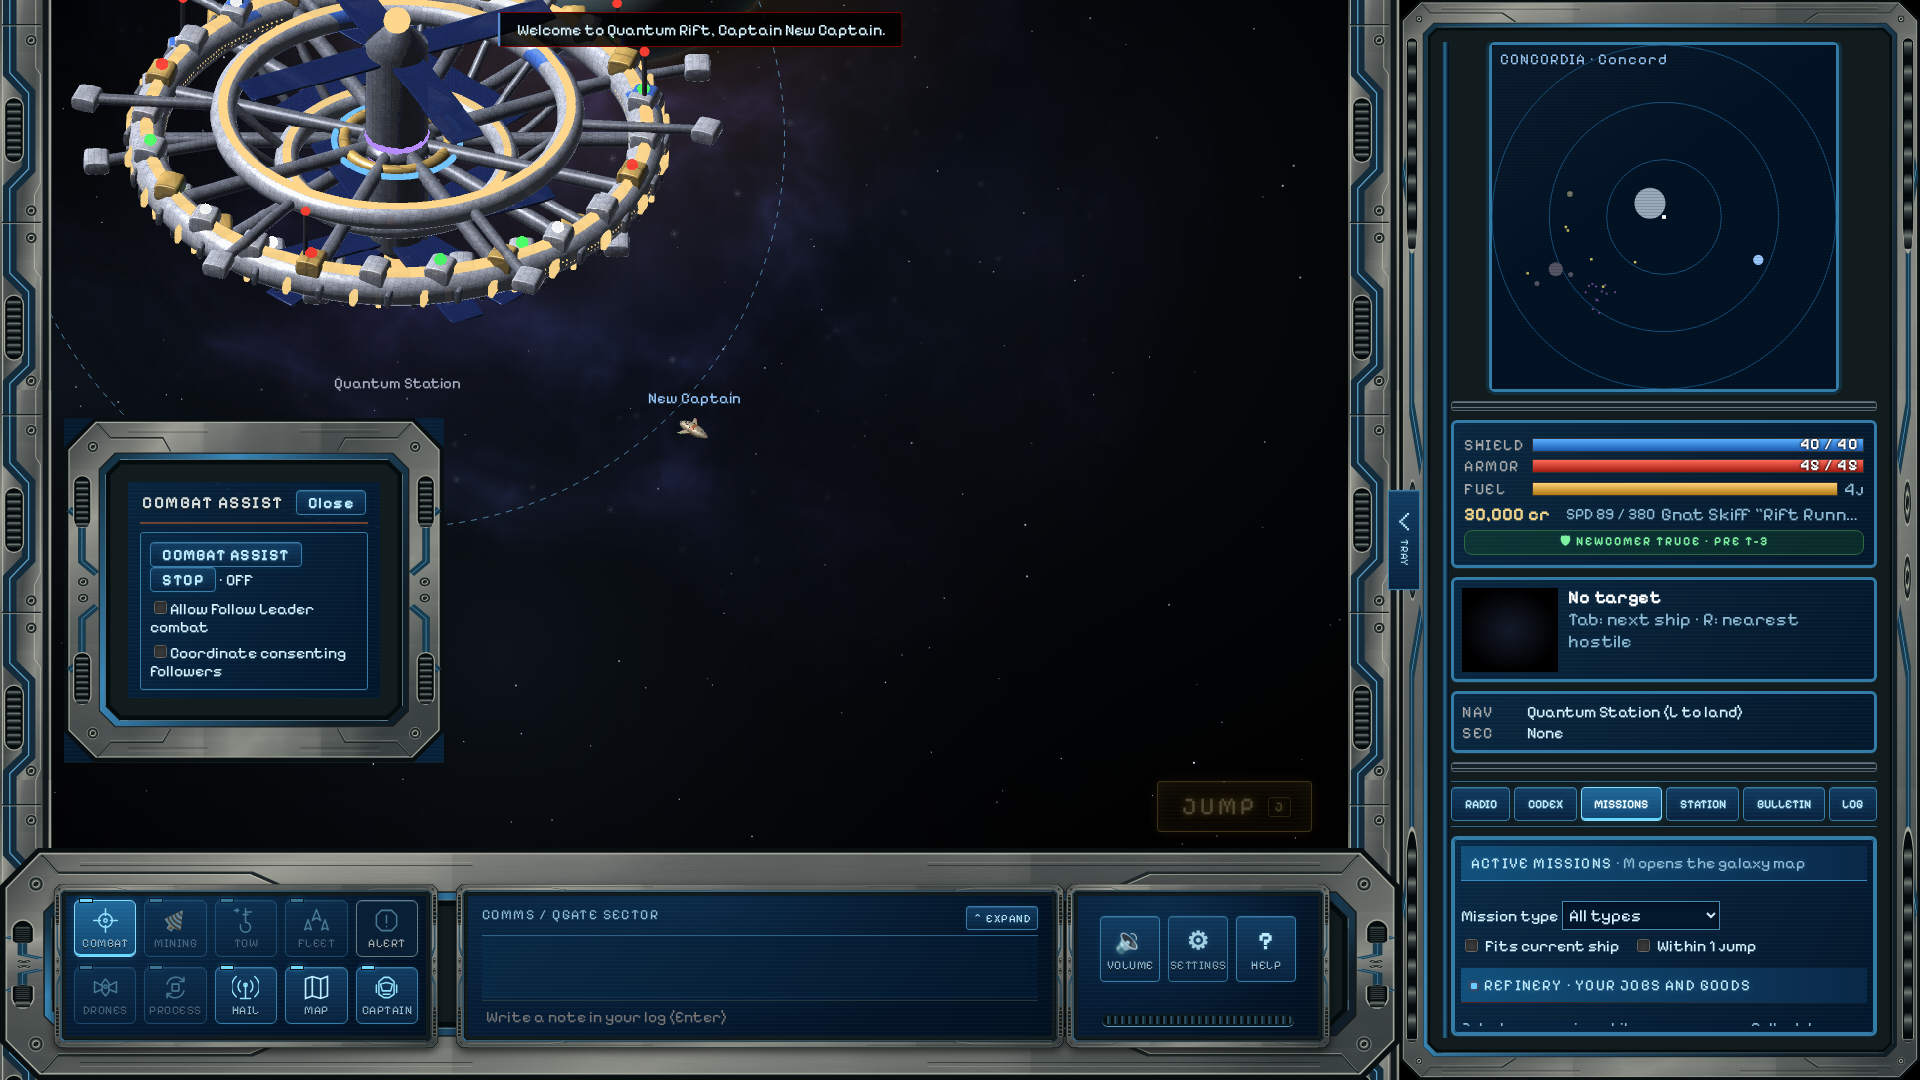
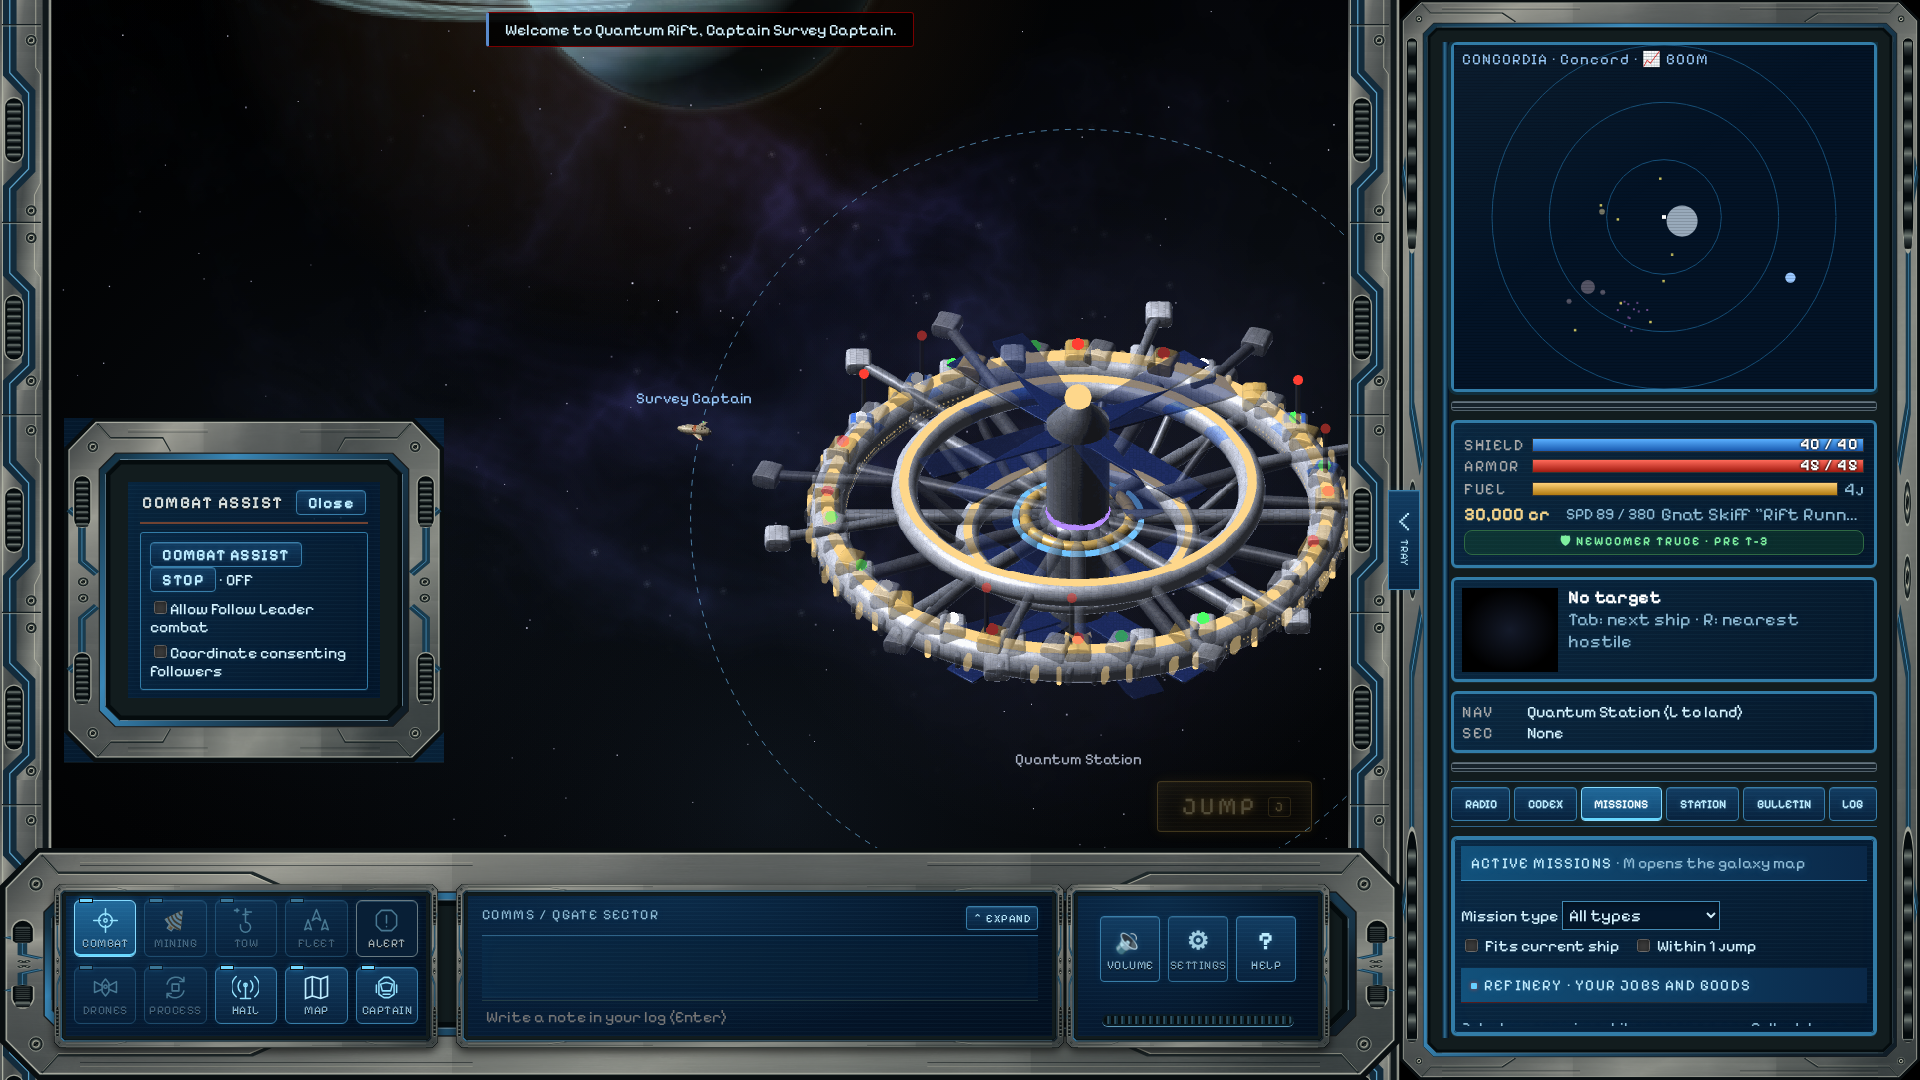
test(ui): await current sidebar allocation

diff --git a/test/sidebar-sizing-browser.ts b/test/sidebar-sizing-browser.ts
@@ -45,14 +45,33 @@ try {
     undefined,
     { timeout: 3000 },
   );
+  // Both ARIA values can still describe the previous viewport. Compare them
+  // with the room in the current layout before using the allocation as a baseline.
   async function assertMaximumRadar() {
     await page.waitForFunction(
       () => {
         const grip = document.getElementById('radarheightgrip')!;
+        const sidebar = document.getElementById('hud')!;
+        const radar = document.getElementById('radarwrap')!;
+        const menu = document.getElementById('cpanel')!;
+        const style = getComputedStyle(sidebar);
+        const chrome = [...sidebar.children].filter(
+          (child) =>
+            child !== radar && child !== menu && getComputedStyle(child).position !== 'absolute',
+        );
+        const maximum = Math.max(
+          96,
+          sidebar.clientHeight -
+            chrome.reduce((height, child) => height + (child as HTMLElement).offsetHeight, 0) -
+            parseFloat(style.paddingTop) -
+            parseFloat(style.paddingBottom) -
+            parseFloat(style.rowGap) * (chrome.length + 1) -
+            200,
+        );
         return (
-          Math.abs(
-            Number(grip.getAttribute('aria-valuenow')) - Number(grip.getAttribute('aria-valuemax')),
-          ) <= 1
+          Math.abs(Number(grip.getAttribute('aria-valuenow')) - maximum) <= 1 &&
+          Math.abs(Number(grip.getAttribute('aria-valuemax')) - maximum) <= 1 &&
+          Math.abs(radar.offsetHeight - maximum) <= 1
         );
       },
       undefined,

diff --git a/README.md b/README.md
@@ -85,7 +85,7 @@ When updating, close the old game server window first. Preserve your `data/`, `s
 
 **Flight cockpit and system radar**
 
-The blue Pressure Hull cockpit is the standard interface for flight, station services and chat. The square system radar leaves room for the Tray menu.
+The blue Pressure Hull cockpit is the standard interface for flight, station services and chat. The system radar starts at its maximum available height. Drag its divider to leave more room for the Tray menu.
 
 ![Blue flight controls with the Tray and system radar expanded](docs/screenshots/pressure-hull-flight.png)
 
@@ -93,7 +93,7 @@ The blue Pressure Hull cockpit is the standard interface for flight, station ser
 
 Ship-function controls open above the console. JUMP can sit in either bottom corner.
 
-![Combat assist controls above the console beside the square system radar](docs/screenshots/flight-functions.png)
+![Combat assist controls above the console beside the system radar](docs/screenshots/flight-functions.png)
 
 **Landed services**
 
